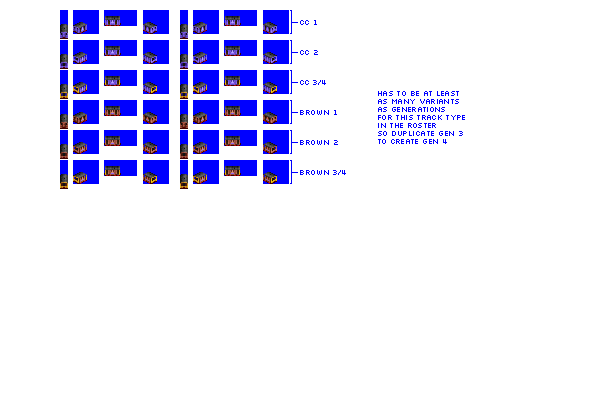
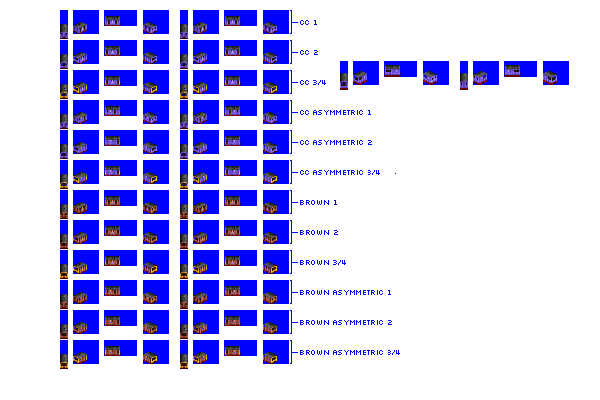
Change: additional NG caboose cars for Pony

diff --git a/src/vehicles/caboose_cars.py b/src/vehicles/caboose_cars.py
@@ -10,16 +10,22 @@ def main():
         "cc_enclosed_1",
         "cc_enclosed_2",
         "cc_enclosed_3",
+        "cc_asymmetric_1",
+        "cc_asymmetric_2",
+        "cc_asymmetric_3",
         "brown_enclosed_1",
         "brown_enclosed_2",
         "brown_enclosed_3",
+        "brown_asymmetric_1",
+        "brown_asymmetric_2",
+        "brown_asymmetric_3",
     ]
     # note that probability of a specific type within a family can be increased by repeating it in the list for that family
     caboose_families = {
-        "default_1": ["cc_enclosed_1", "brown_enclosed_1"],
-        "default_2": ["cc_enclosed_2", "brown_enclosed_2"],
-        "default_3": ["cc_enclosed_3", "brown_enclosed_3"],
-        "default_4": ["cc_enclosed_3", "brown_enclosed_3"],
+        "default_1": ["cc_enclosed_1", "brown_enclosed_1", "cc_asymmetric_1", "brown_asymmetric_1"],
+        "default_2": ["cc_enclosed_2", "brown_enclosed_2", "cc_asymmetric_2", "brown_asymmetric_2"],
+        "default_3": ["cc_enclosed_3", "brown_enclosed_3", "cc_asymmetric_3", "brown_asymmetric_3"],
+        "default_4": ["cc_enclosed_3", "brown_enclosed_3", "cc_asymmetric_3", "brown_asymmetric_3"],
     }
     # these should match the number of default families, in order
     buy_menu_sprite_pairs = [
@@ -38,7 +44,7 @@ def main():
         spriterow_labels=spriterow_labels,
         caboose_families=caboose_families,
         buy_menu_sprite_pairs=buy_menu_sprite_pairs,
-        sprites_complete=False,
+        sprites_complete=True,
     )
 
     consist.add_unit(type=CabooseCar, chassis="2_axle_ng_8px")
@@ -52,7 +58,7 @@ def main():
         spriterow_labels=spriterow_labels,
         caboose_families=caboose_families,
         buy_menu_sprite_pairs=buy_menu_sprite_pairs,
-        sprites_complete=False,
+        sprites_complete=True,
     )
 
     consist.add_unit(type=CabooseCar, chassis="4_axle_ng_16px")
